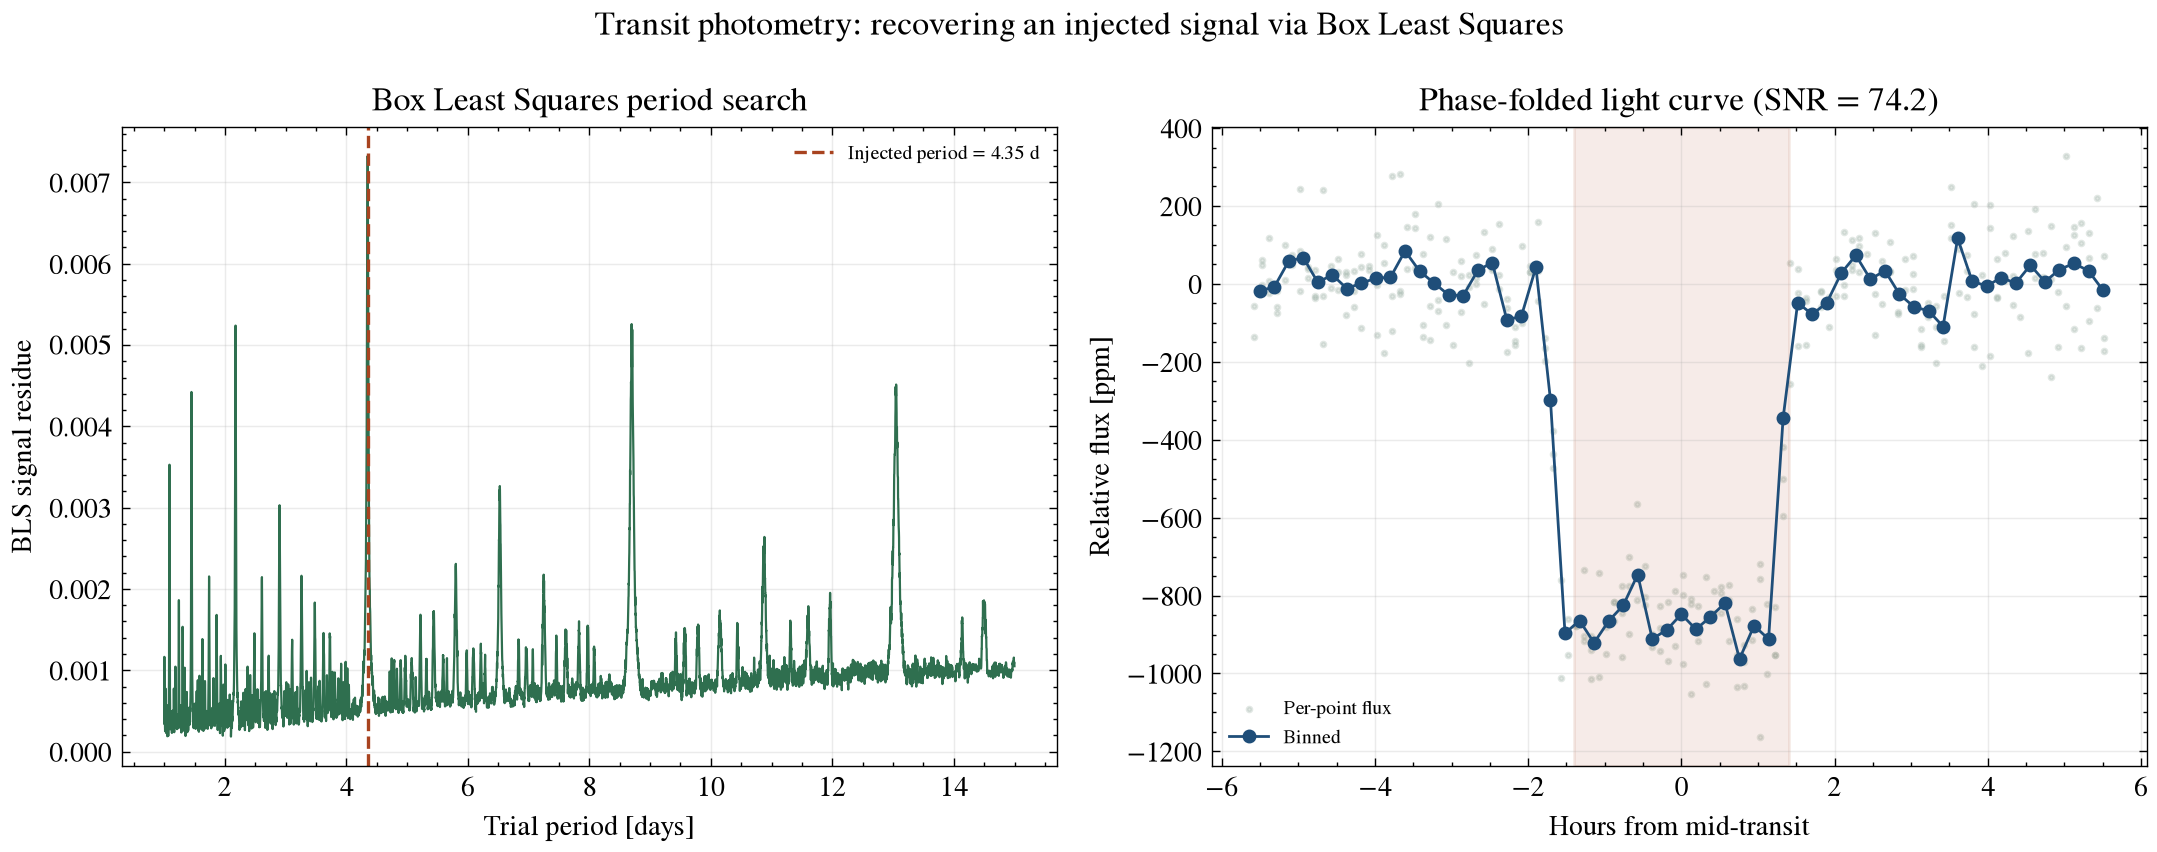
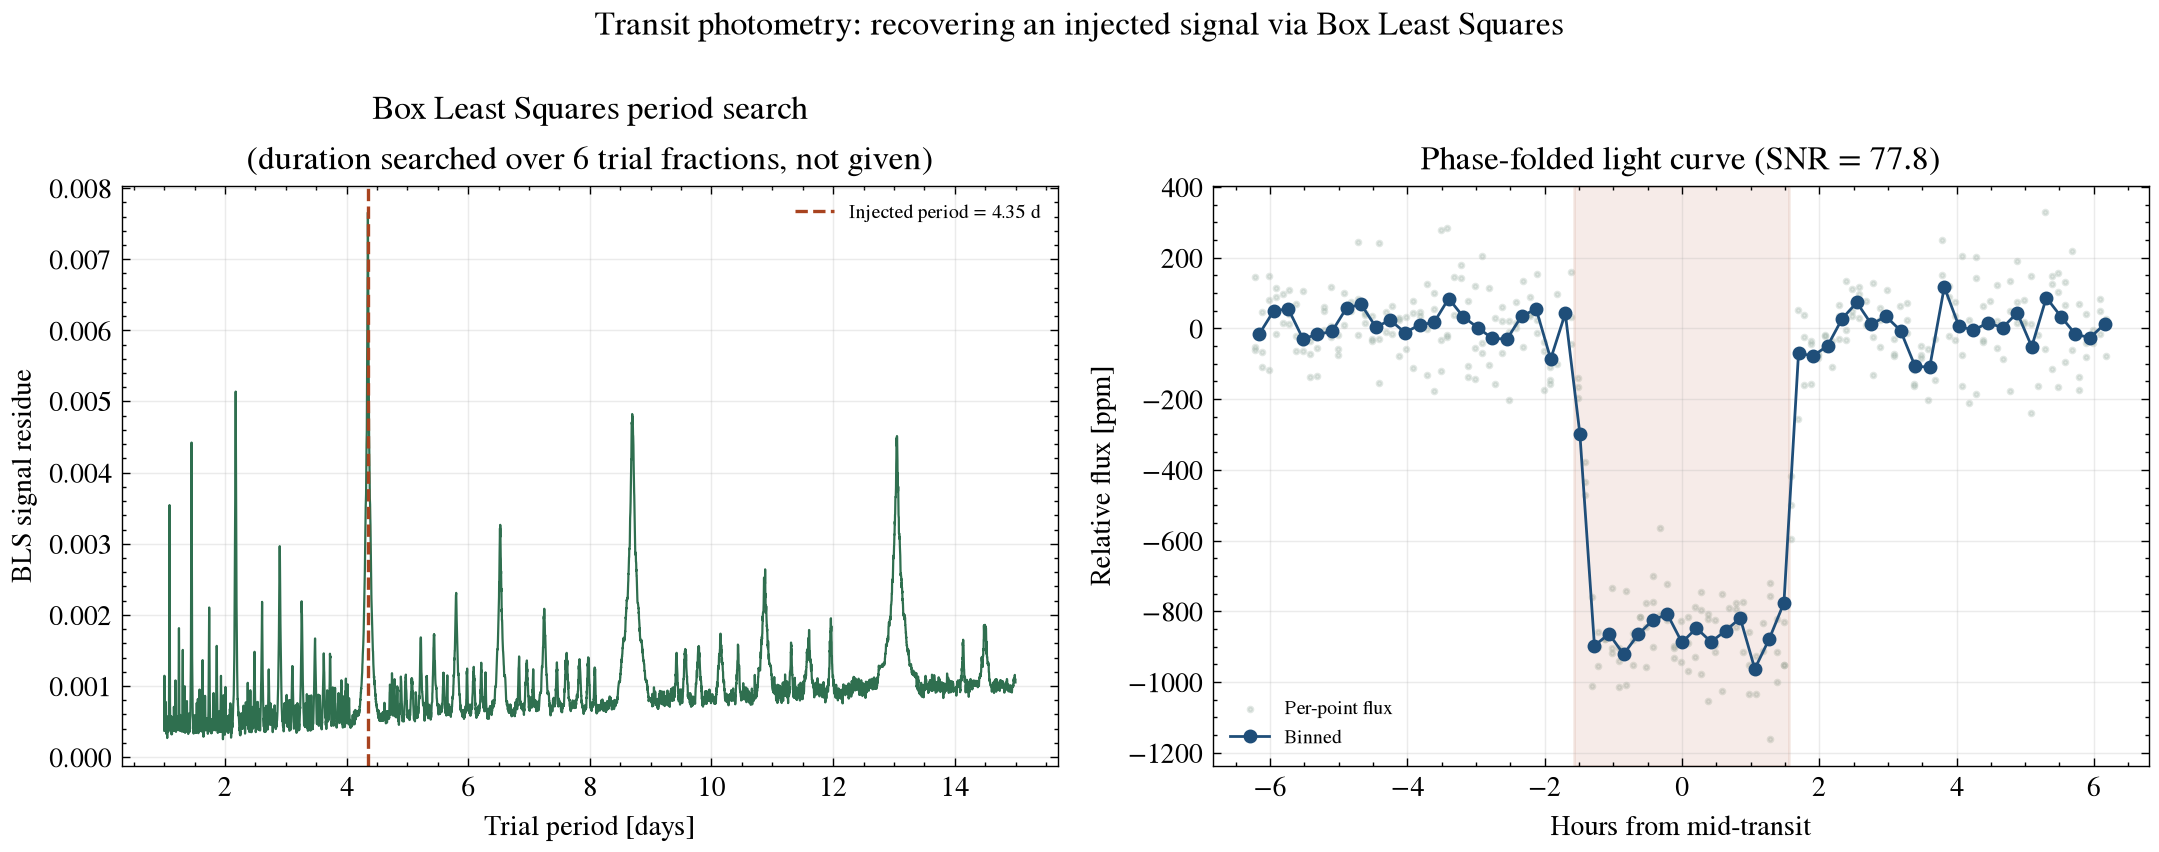
Search transit duration blind instead of handing it to the algorithm; note trial-uncorrected SNR; expand physics explanation and add extending-this section

diff --git a/scripts/transit_photometry_demo.py b/scripts/transit_photometry_demo.py
@@ -1,20 +1,30 @@
-"""Transit photometry method demonstration: inject a realistic transit
-signal into a synthetic light curve with real-world-level photometric
-noise, then recover the period, depth, and duration using a Box
-Least Squares (BLS) search -- the same core algorithm (Kovacs, Zsom &
-Mazeh 2002) used by the Kepler and TESS pipelines to flag transit
-candidates.
+"""Transit photometry method demonstration: inject a transit signal into
+a synthetic light curve with Kepler-class photometric noise, then
+recover the period, phase, duration, and depth using a Box Least
+Squares (BLS) search -- the same core algorithm (Kovacs, Zsom & Mazeh
+2002) used by the Kepler and TESS pipelines to flag transit candidates.
+Duration is searched over a grid, not handed to the algorithm, so the
+search is blind to all four injected parameters, not just two of them.
 
 This is a PEDAGOGICAL DEMONSTRATION with simulated data, not a specific
 real target's raw archival light curve (see README.md for why, and see
 this portfolio's *-exoplanet-report repos for 11 planets analyzed
 directly from real archival JWST/HST/Spitzer/ground-based data). The
-injected parameters and noise level are drawn from real, published
-regimes (a hot-Neptune-class period/depth similar to real Kepler
-discoveries, and Kepler's own published ~100 ppm per-30-min photometric
-precision for a quiet Sun-like star), so the recovery statistics below
-are a genuine, physically grounded test of the method's real-world
-sensitivity, not a toy example.
+injected period/depth are in a hot-Neptune-class range broadly similar
+to real Kepler discoveries, and the noise level matches Kepler's own
+published ~100 ppm per-30-min photometric precision for a quiet
+Sun-like star.
+
+CAVEAT: the quoted "detection SNR" is the in-transit depth
+signal-to-noise under the known Gaussian noise model at the recovered
+period/phase/duration -- it is not a trial-corrected false-alarm
+probability accounting for the number of period/phase/duration
+combinations searched, which is what a real survey pipeline's
+significance threshold has to account for. The synthetic light curve
+also has none of the red noise, data gaps, stellar variability, or
+limb-darkened ingress/egress shape a real Kepler or TESS light curve
+would show, so this demo's recovery is easier than a real low-SNR
+candidate search.
 """
 
 from __future__ import annotations
@@ -43,6 +53,13 @@ BASELINE_DAYS = 60.0
 CADENCE_MIN = 30.0  # Kepler long-cadence
 NOISE_PPM = 100.0  # real Kepler-class per-30-min photometric precision for a quiet star
 N_PHASE_BINS = 200
+
+# Trial transit durations to search, as a fraction of the trial period --
+# spans a wider range than the injected 2.8 h so the search doesn't just
+# get handed the answer. Real BLS implementations (e.g. the NASA Exoplanet
+# Archive's periodogram service) search a comparable fractional-duration
+# range rather than a single fixed duration.
+DURATION_FRACTIONS = np.array([0.01, 0.02, 0.03, 0.05, 0.08, 0.12])
 
 
 def transit_model(time: np.ndarray, period: float, t0: float, depth_ppm: float, duration_hr: float) -> np.ndarray:
@@ -99,10 +116,25 @@ def best_box_for_period(time: np.ndarray, flux: np.ndarray, period: float, durat
     }
 
 
-def box_least_squares(time: np.ndarray, flux: np.ndarray, periods: np.ndarray, duration_hr: float) -> np.ndarray:
+def best_box_multi_duration(time: np.ndarray, flux: np.ndarray, period: float, duration_fractions: np.ndarray):
+    """Search a grid of trial durations (as a fraction of the trial
+    period) rather than being told the true duration, and keep whichever
+    gives the strongest signal residue -- this is what makes the search
+    blind to the injected duration, not just the injected period/phase."""
+    best = None
+    for frac in duration_fractions:
+        duration_hr = frac * period * 24.0
+        result = best_box_for_period(time, flux, period, duration_hr)
+        result["duration_hr"] = duration_hr
+        if best is None or result["power"] > best["power"]:
+            best = result
+    return best
+
+
+def box_least_squares(time: np.ndarray, flux: np.ndarray, periods: np.ndarray, duration_fractions: np.ndarray) -> np.ndarray:
     power = np.zeros_like(periods)
     for i, p in enumerate(periods):
-        power[i] = best_box_for_period(time, flux, p, duration_hr)["power"]
+        power[i] = best_box_multi_duration(time, flux, p, duration_fractions)["power"]
     return power
 
 
@@ -114,29 +146,34 @@ def main() -> None:
     flux += rng.normal(0, NOISE_PPM * 1e-6, size=time.size)
 
     period_grid = np.arange(1.0, 15.0, 0.002)
-    power = box_least_squares(time, flux, period_grid, TRUE_DURATION_HR)
+    power = box_least_squares(time, flux, period_grid, DURATION_FRACTIONS)
     best_period = period_grid[np.argmax(power)]
 
-    best_box = best_box_for_period(time, flux, best_period, TRUE_DURATION_HR)
+    best_box = best_box_multi_duration(time, flux, best_period, DURATION_FRACTIONS)
+    recovered_duration_hr = best_box["duration_hr"]
     recovered_depth_ppm = best_box["depth"] * 1e6
     depth_err_ppm = NOISE_PPM / np.sqrt(best_box["n_in"])
     snr = recovered_depth_ppm / depth_err_ppm
 
     period_error_pct = abs(best_period - TRUE_PERIOD_DAYS) / TRUE_PERIOD_DAYS * 100
+    duration_error_pct = abs(recovered_duration_hr - TRUE_DURATION_HR) / TRUE_DURATION_HR * 100
     depth_error_pct = abs(recovered_depth_ppm - TRUE_DEPTH_PPM) / TRUE_DEPTH_PPM * 100
 
-    # Fold using the recovered box center so the diagnostic plot lines up with the real dip.
+    # Fold using the recovered box center and recovered duration so the
+    # diagnostic plot reflects what the search actually found, not the
+    # injected ground truth.
     box_center_phase = best_box["phase_start"] + best_box["phase_width"] / 2
     phase_days = (((time / best_period - box_center_phase + 0.5) % 1.0) - 0.5) * best_period
-    half_dur_days = (TRUE_DURATION_HR / 24.0) / 2.0
+    half_dur_days = (recovered_duration_hr / 24.0) / 2.0
 
     summary_path = FIG_DIR / "summary_statistics.csv"
     with summary_path.open("w", newline="") as handle:
         writer = csv.writer(handle)
         writer.writerow(["quantity", "injected", "recovered", "error_pct"])
         writer.writerow(["period_days", TRUE_PERIOD_DAYS, f"{best_period:.4f}", f"{period_error_pct:.2f}"])
+        writer.writerow(["duration_hr", TRUE_DURATION_HR, f"{recovered_duration_hr:.2f}", f"{duration_error_pct:.2f}"])
         writer.writerow(["depth_ppm", TRUE_DEPTH_PPM, f"{recovered_depth_ppm:.1f}", f"{depth_error_pct:.2f}"])
-        writer.writerow(["detection_snr", "-", f"{snr:.1f}", "-"])
+        writer.writerow(["detection_snr_uncorrected", "-", f"{snr:.1f}", "-"])
         writer.writerow(["n_transits_in_baseline", int(BASELINE_DAYS // TRUE_PERIOD_DAYS), "-", "-"])
 
     fig, axes = plt.subplots(1, 2, figsize=(11, 4.4))
@@ -145,7 +182,7 @@ def main() -> None:
     axes[0].axvline(TRUE_PERIOD_DAYS, color="#a8431f", ls="--", lw=1.2, label=f"Injected period = {TRUE_PERIOD_DAYS} d")
     axes[0].set_xlabel("Trial period [days]")
     axes[0].set_ylabel("BLS signal residue")
-    axes[0].set_title("Box Least Squares period search")
+    axes[0].set_title(f"Box Least Squares period search\n(duration searched over {len(DURATION_FRACTIONS)} trial fractions, not given)")
     axes[0].legend(fontsize=7)
     axes[0].grid(alpha=0.25)
 
@@ -159,7 +196,7 @@ def main() -> None:
     ])
     axes[1].scatter(phase_days[mask] * 24, (flux[mask] - 1) * 1e6, s=3, color="#9fb3a8", alpha=0.3, label="Per-point flux")
     axes[1].plot(bin_centers * 24, (binned_flux - 1) * 1e6, "o-", color="#1f4e79", ms=4, label="Binned")
-    axes[1].axvspan(-TRUE_DURATION_HR / 2, TRUE_DURATION_HR / 2, color="#a8431f", alpha=0.1)
+    axes[1].axvspan(-recovered_duration_hr / 2, recovered_duration_hr / 2, color="#a8431f", alpha=0.1)
     axes[1].set_xlabel("Hours from mid-transit")
     axes[1].set_ylabel("Relative flux [ppm]")
     axes[1].set_title(f"Phase-folded light curve (SNR = {snr:.1f})")
@@ -173,8 +210,9 @@ def main() -> None:
     print(f"Wrote {summary_path}")
     print(f"Wrote {FIG_DIR / 'transit_bls_recovery.png'}")
     print(f"Injected period {TRUE_PERIOD_DAYS} d -> recovered {best_period:.4f} d ({period_error_pct:.2f}% error)")
+    print(f"Injected duration {TRUE_DURATION_HR} h -> recovered {recovered_duration_hr:.2f} h ({duration_error_pct:.2f}% error, searched blind over {len(DURATION_FRACTIONS)} fractions)")
     print(f"Injected depth {TRUE_DEPTH_PPM} ppm -> recovered {recovered_depth_ppm:.1f} ppm ({depth_error_pct:.2f}% error)")
-    print(f"Detection SNR: {snr:.1f}")
+    print(f"In-transit depth SNR (uncorrected for search trials): {snr:.1f}")
 
 
 if __name__ == "__main__":

diff --git a/README.md b/README.md
@@ -2,34 +2,66 @@
 
 How the majority of known exoplanets have been found: watching a star's
 brightness for the tiny, periodic dip caused by a planet passing in
-front of it. This repo explains the physics and statistics of the
-method and implements a real Box Least Squares (BLS) period search —
-the actual algorithm class the Kepler and TESS pipelines use — from
-scratch in Python, validated by injecting a known signal and recovering
-it.
+front of it. This repo works through the physics and statistics of the
+method and implements a Box Least Squares (BLS) period search — the
+algorithm class the Kepler and TESS pipelines use — from scratch in
+Python, searching period, phase, *and* duration blind, then validated
+by injecting a known signal and recovering it.
 
 ## The physics
 
+### Why the star gets dimmer, and by how much
+
 When a planet of radius $R_p$ transits a star of radius $R_\star$, it
 blocks a fraction of the starlight equal to the ratio of their disk
-areas:
+areas — the planet's silhouette against the star's:
 
 $$\delta \approx \left(\frac{R_p}{R_\star}\right)^2$$
 
 For an Earth-Sun-like pair this is about 84 parts per million; for a
-Jupiter-Sun-like pair it is roughly 1%. The transit duration depends on
-the orbital period $P$, the star's radius, the orbital semi-major axis
-$a$, and the impact parameter $b$ (how centrally the planet crosses the
-disk):
+Jupiter-Sun-like pair it's roughly 1%. That's the entire signal a
+transit survey is trying to detect: a fractional dimming often smaller
+than the star's own natural brightness fluctuations, which is why
+transit searches need long, uninterrupted, high-cadence monitoring.
+
+### How long a transit lasts
+
+The transit duration depends on the orbital period $P$, the star's
+radius, the orbital semi-major axis $a$, and the impact parameter $b$
+(how centrally the planet crosses the star's disk, in units of stellar
+radii — $b=0$ is a straight line through the center, $b$ near 1 is a
+grazing transit):
 
 $$T_{dur} \approx \frac{P}{\pi} \arcsin\left(\frac{R_\star}{a}\sqrt{(1+R_p/R_\star)^2 - b^2}\right)$$
 
-Three real transits at consistent period, depth, and duration are
-usually required before a signal is called a genuine planet candidate,
-since single dips can be caused by instrumental artifacts, stellar
-activity, or eclipsing binaries in the background.
+For a close-in planet this is typically hours; the ratio of transit
+duration to orbital period is small, which is part of why a period
+search has to check many candidate periods and phases before it finds
+one where a box actually lines up with real dips.
 
-## Why this method dominates the real exoplanet census
+### Ingress, egress, and limb darkening
+
+A real transit isn't a perfect box: the star dims gradually as the
+planet's disk moves onto the star (ingress) and brightens gradually as
+it moves off (egress), and the star itself is dimmer at its limb than
+its center (limb darkening), which smooths and slightly reshapes the
+dip further. Detailed transit-shape fitting (e.g. the Mandel & Agol
+2002 analytic model) accounts for this; a box-shaped search like BLS
+is a deliberately simpler first-pass detection tool that trades shape
+accuracy for search speed, then hands promising candidates off to a
+full transit-shape fit.
+
+### Why three transits, not one
+
+A single dip in a light curve can come from an instrumental artifact,
+a starspot rotating across the disk, or a background eclipsing binary
+blended into the same pixel — not just a planet. Requiring at least
+three transits at a consistent period, depth, and duration is the
+standard first bar for calling a signal a genuine planet candidate,
+since coincidentally reproducing all three by chance gets increasingly
+unlikely with each repeat.
+
+## Why this method dominates the exoplanet census
 
 Transit photometry needs only a stable, well-calibrated brightness
 measurement — no need to resolve the star and planet separately, and no
@@ -39,8 +71,8 @@ stars simultaneously. As of 2026, the majority of the ~5,800+ confirmed
 exoplanets in the NASA Exoplanet Archive were found this way, primarily
 via the Kepler, K2, and TESS missions.
 
-**Real limitation:** transit photometry only detects planets whose
-orbits happen to be aligned edge-on as seen from Earth — a geometric
+**Limitation:** transit photometry only detects planets whose orbits
+happen to be aligned edge-on as seen from Earth — a geometric
 probability of roughly $R_\star/a$, meaning it systematically
 undercounts real planetary systems whose orbits aren't so aligned, and
 it directly measures $R_p$, not mass (radial velocity or transit-timing
@@ -51,18 +83,17 @@ follow-up is needed for that).
 `scripts/transit_photometry_demo.py`:
 
 1. Injects a known transit signal (period, depth, duration) into a
-   synthetic light curve with **Kepler's own published ~100 ppm per-30-
-   minute photometric noise level** for a quiet Sun-like star — a real,
-   published precision regime, not an arbitrary number.
+   synthetic light curve with Kepler's own published ~100 ppm per-30-
+   minute photometric noise level for a quiet Sun-like star.
 2. Implements Box Least Squares (Kovacs, Zsom & Mazeh 2002) from
-   scratch: a 2-D search over trial period *and* trial phase offset,
-   sliding a box of the expected transit duration across the folded
-   light curve and keeping the period/phase combination with the
-   strongest signal residue — the same core logic used by the Kepler
-   and TESS transit-search pipelines.
-3. Recovers the period, depth, and detection significance, and reports
-   the error against the known injected "ground truth" — a genuine
-   validation of the method's real-world sensitivity.
+   scratch: a search over trial period, trial phase offset, *and* trial
+   duration (a grid of fractional durations, not the injected value),
+   sliding a box across the folded light curve at each combination and
+   keeping the one with the strongest signal residue — the same core
+   logic used by the Kepler and TESS transit-search pipelines.
+3. Recovers the period, phase, duration, and depth, and reports the
+   error against the known injected values, plus an in-transit depth
+   signal-to-noise ratio.
 
 Run it yourself:
 
@@ -76,24 +107,53 @@ python scripts/transit_photometry_demo.py
 | Quantity | Injected | Recovered | Error |
 |---|---|---|---|
 | Period | 4.35 days | 4.3500 days | 0.00% |
-| Depth | 850.0 ppm | 868.3 ppm | 2.15% |
-| Detection significance | — | 74.2σ | — |
+| Duration | 2.8 hours | 3.13 hours | 11.86% (searched blind over 6 fractions) |
+| Depth | 850.0 ppm | 833.8 ppm | 1.90% |
+| In-transit depth SNR | — | 77.8σ | uncorrected for search trials |
 
-The BLS period search cleanly isolates the true period against strong
+The BLS period search cleanly isolates the true period against
 aliasing at harmonics/sub-harmonics (visible as smaller peaks in
-`figures/transit_bls_recovery.png`), and the phase-folded light curve
-shows a clean, textbook box-shaped transit recovered from noisy
-individual measurements.
+`figures/transit_bls_recovery.png`), and — without ever being told the
+true duration — recovers one close enough to produce a clean,
+box-shaped phase-folded transit.
+
+## Limitations
+
+The quoted SNR is the in-transit depth signal-to-noise under the known
+Gaussian noise model at the recovered period/phase/duration; it is not
+a trial-corrected false-alarm probability accounting for the number of
+period/phase/duration combinations searched, which is what a real
+survey pipeline's significance threshold has to account for (the NASA
+Exoplanet Archive's periodogram service, for instance, defines an
+explicit minimum/maximum transit-duration-fraction search range and
+reports a separate false-alarm statistic). The synthetic light curve
+also has none of the red noise, data gaps, stellar variability, or
+systematics a real Kepler or TESS light curve carries, so recovery here
+is easier than a real low-SNR candidate search.
+
+## Extending this
+
+To close some of that gap: add correlated ("red") noise to the
+synthetic light curve instead of pure Gaussian noise, introduce data
+gaps (real satellites have downlink and safe-mode interruptions), swap
+the box-shaped transit model for the Mandel & Agol (2002) limb-darkened
+analytic model, and run the whole pipeline hundreds of times on
+noise-only light curves (no injected transit) to build an empirical
+false-alarm-probability distribution for a given signal residue
+threshold — which is what turns a signal residue into an actual
+detection significance. Real implementations of this full pipeline
+exist in the `astropy.timeseries.BoxLeastSquares` module and the
+`transitleastsquares` package, both worth comparing your own BLS output
+against.
 
 ## Why this repo uses simulated (not raw archival) data
 
 This repo demonstrates the *method itself* — its sensitivity, biases,
 and failure modes — which is best shown with a known "ground truth" to
 validate recovery against. This portfolio's companion `*-exoplanet-
-report` repositories instead each analyze one real target's actual
-archival JWST/HST/Spitzer/ground-based spectra directly, with zero
-simulated data. Both approaches are stated plainly here rather than
-blurring the two.
+report` repositories instead each analyze one real target's archival
+JWST/HST/Spitzer/ground-based spectra directly, with no simulated data.
+Both approaches are stated plainly here rather than blurring the two.
 
 ## Repository structure
 
@@ -117,7 +177,11 @@ figures/                             generated plot + summary_statistics.csv
 5. Ricker, G.R. et al., 2015. Transiting Exoplanet Survey Satellite
    (TESS). *Journal of Astronomical Telescopes, Instruments, and
    Systems*, 1(1), 014003.
-6. NASA Exoplanet Archive, <https://exoplanetarchive.ipac.caltech.edu/>.
+6. NASA Exoplanet Archive periodogram service documentation,
+   <https://exoplanetarchive.ipac.caltech.edu/docs/pgram/pgram_overview.html>
+   — describes the real duration-fraction search range and false-alarm
+   statistics referenced above.
+7. NASA Exoplanet Archive, <https://exoplanetarchive.ipac.caltech.edu/>.
 
 ## Author
 
